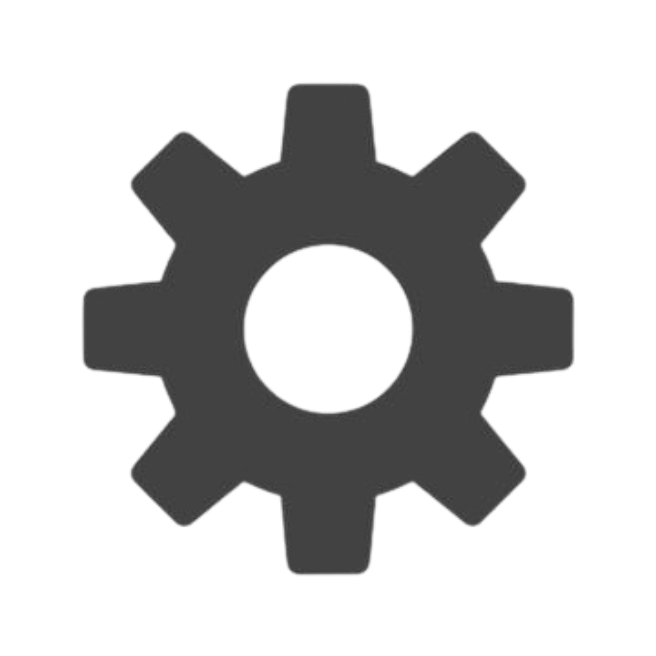
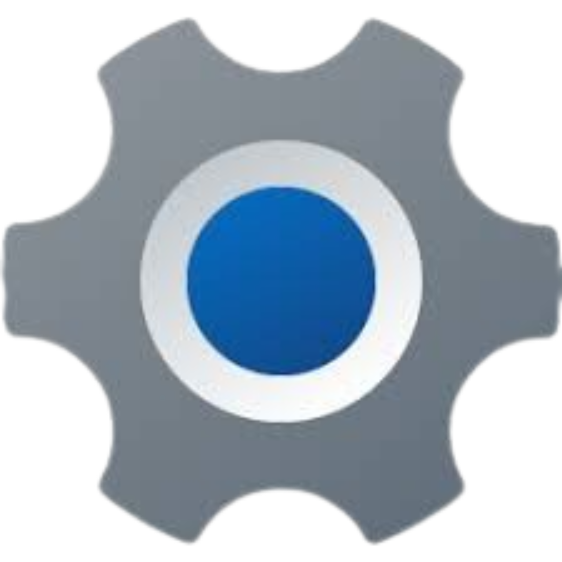
Moved min Max menu to DataTable and fixed Climb calculations

diff --git a/gui/DataTable.java b/gui/DataTable.java
@@ -10,18 +10,26 @@ import java.awt.GridLayout;
 import java.awt.event.ActionEvent;
 import java.awt.event.ActionListener;
 import javax.swing.BorderFactory;
+import javax.swing.ButtonGroup;
 import javax.swing.JButton;
 import javax.swing.JFrame;
 import javax.swing.JPanel;
+import javax.swing.JRadioButton;
 import javax.swing.JScrollPane;
 import javax.swing.JTable;
 import javax.swing.table.DefaultTableModel;
+
+import Constants.Constants;
 
 public class DataTable extends JFrame {
 
     private final JFrame frame = new JFrame();
     private final JPanel panel = new JPanel();
-    private String[] columnNames = {"Team Number", "Auto", "Amp", "Speaker", "Climb", "Passes", "Trap", "Matches", "Defense"};
+    private final String[] columnNames = {"Team Number", "Auto", "Amp", "Speaker", "Climb", "Passes", "Trap", "Matches", "Defense"};
+    private static String tableCalcSetting = "Average";
+
+    private final JRadioButton[] tableOrganizationOptions = new JRadioButton[Constants.TABLE_SETTINGS_OPTIONS.length];
+    private final ButtonGroup tableOrganizationButtonGroup = new ButtonGroup();
     private JTable table = new JTable(new DefaultTableModel(CalculateTable.getDataObjects(TeamData.getTeams(), Settings.tableCalcSetting), columnNames) {
         @Override
         public boolean isCellEditable(int row, int column) {
@@ -34,13 +42,17 @@ public class DataTable extends JFrame {
     public DataTable() {
         super();
 
-        for(int i = 0; i< columnNames.length; i++){
+        panel.setBorder(BorderFactory.createMatteBorder(30, 30, 30, 30, Color.BLUE));
+        panel.setLayout(null);
+        panel.setPreferredSize(new Dimension(1920, 1280));
+
+        for(int i = 0; i< columnNames.length; i++) {
             JButton button = new JButton(columnNames[i]);
             final Integer inneri = i;
              button.addActionListener(new ActionListener() {
                 @Override
                 public void actionPerformed(ActionEvent e) {
-                    table.setModel(new DefaultTableModel(CalculateTable.doublestoObjects(CalculateTable.organizeData(CalculateTable.getDataDoubles(TeamData.getTeams(), Settings.tableCalcSetting), inneri, (lastButtonClicked == inneri))), columnNames)
+                    table.setModel(new DefaultTableModel(CalculateTable.doublestoObjects(CalculateTable.organizeData(CalculateTable.getDataDoubles(TeamData.getTeams(), tableCalcSetting), inneri, (lastButtonClicked == inneri))), columnNames)
                     {
                         @Override
                         public boolean isCellEditable(int row, int column) {
@@ -54,10 +66,28 @@ public class DataTable extends JFrame {
 
             buttonPanel.add(button);
         }
-        buttonPanel.setBounds(31, 60, (1540-61), 25);
+        buttonPanel.setBounds(31, 90, (1540-61), 25);
         table.setFont((new Font(table.getFont().getName(), Font.BOLD, 20)));
         table.setRowHeight(table.getRowHeight() + 5);
         table.setRowMargin(5);
+
+        for (int i = 0; i < tableOrganizationOptions.length; i++) {
+            tableOrganizationOptions[i] = new JRadioButton(Constants.TABLE_SETTINGS_OPTIONS[i]);
+            tableOrganizationOptions[i].setSelected(Constants.TABLE_SETTINGS_OPTIONS[i].equals(tableCalcSetting));
+            tableOrganizationOptions[i].setBounds(710 - (tableOrganizationOptions.length * 100 / 2) + ((i + 1) * 100), 60 , 100, 25);
+            final int temp = i;
+            tableOrganizationOptions[i].addActionListener(new ActionListener() {
+                @Override
+                public void actionPerformed(ActionEvent e) {
+                    tableCalcSetting = Constants.TABLE_SETTINGS_OPTIONS[temp];
+                    new DataTable();
+                }
+            });
+            panel.add(tableOrganizationOptions[i]);
+
+            tableOrganizationButtonGroup.add(tableOrganizationOptions[i]);
+        }
+
         panel.add(buttonPanel, BorderLayout.NORTH);
 
         panel.setBorder(BorderFactory.createMatteBorder(30, 30, 30, 30, Color.BLUE));
@@ -65,7 +95,7 @@ public class DataTable extends JFrame {
         panel.setLayout(null);
         panel.setPreferredSize(new Dimension(1540, 1280));
 
-        table.setBounds(31, 90, (1540-61), 1000);
+        table.setBounds(31, 120, (1540-61), 1000);
         panel.add(table);
 
         new ToggleScreenButtons(panel, CurrentScreen.DataTable);

diff --git a/gui/Settings.java b/gui/Settings.java
@@ -16,16 +16,12 @@ import javax.swing.JRadioButton;
 
 public class Settings implements ActionListener {
 
-    private JFrame frame = new JFrame();
-    private JPanel panel = new JPanel();
+    private final JFrame frame = new JFrame();
+    private final JPanel panel = new JPanel();
 
     public static String tableCalcSetting = "Average";
 
-    private JLabel labelTableOrganization = new JLabel("What should the value displayed on the table be?");
-    private JRadioButton[] tableOrganizationOptions = new JRadioButton[Constants.TABLE_SETTINGS_OPTIONS.length];
-    private ButtonGroup tableOrganizationButtonGroup = new ButtonGroup();
-
-    private JButton submitButton = new JButton("Save Settings");
+    private final JButton submitButton = new JButton("Save Settings");
 
     public Settings() {
 
@@ -33,16 +29,6 @@ public class Settings implements ActionListener {
         panel.setBorder(BorderFactory.createMatteBorder(30, 30, 30, 30, Color.BLUE));
         panel.setLayout(null);
         panel.setPreferredSize(new Dimension(1920, 1280));
-
-        labelTableOrganization.setBounds(710, 30, 300, 25);
-        panel.add(labelTableOrganization);
-
-        for (int i = 0; i < tableOrganizationOptions.length; i++) {
-            tableOrganizationOptions[i] = new JRadioButton(Constants.TABLE_SETTINGS_OPTIONS[i]);
-            tableOrganizationOptions[i].setBounds((710 - (tableOrganizationOptions.length * 30 / 2) + i * 30), 60, 300, 25);
-            panel.add(tableOrganizationOptions[i]);
-            tableOrganizationButtonGroup.add(tableOrganizationOptions[i]);
-        }
 
         submitButton.setBounds(710, 540, 300, 25);
         submitButton.setBackground(Color.LIGHT_GRAY);
@@ -59,18 +45,5 @@ public class Settings implements ActionListener {
     }
 
     @Override
-    public void actionPerformed(ActionEvent e) {
-        tableCalcSetting = getOption(tableOrganizationOptions);
-        if (tableCalcSetting.equals(null)) {
-            System.out.println("Something broke");
-            new DataInputManual();
-        }
-    }
-
-    private String getOption(JRadioButton[] options) {
-        for (int i = 0; i < options.length; i++) {
-            if (options[i].isSelected()) return Constants.TABLE_SETTINGS_OPTIONS[i];
-        }
-        return null;
-    }
+    public void actionPerformed(ActionEvent e) {}
 }

diff --git a/gui/DataInputUpload.java b/gui/DataInputUpload.java
@@ -80,7 +80,7 @@ public class DataInputUpload implements ActionListener {
             for (int i = 0; i < dataLabels.length; i++) {
                 if (dataLabels[i].equals("preMatchStart")) validity = i;
                 else if (dataLabels[i].equals("team_key")) teamNumber = i;
-                else if (dataLabels[i].equals("playedDefense")) role = i;
+                else if (dataLabels[i].equals("role")) role = i;
                 else if (dataLabels[i].equals("totalSpeakerNotes")) speakerNotes = i;
                 else if (dataLabels[i].equals("totalAmpNotes")) ampNotes = i;
                 else if (dataLabels[i].equals("totalAutoNotes")) autoNotes = i;
@@ -102,7 +102,8 @@ public class DataInputUpload implements ActionListener {
                         data[notesPassed] = data[notesPassed].replaceAll("\"", "").trim().replaceAll("\uFEFF", "");
                         data[autoNotes] = data[autoNotes].replaceAll("\"", "").trim().replaceAll("\uFEFF", "");
                         data[trapNotes] = data[trapNotes].replaceAll("\"", "").trim().replaceAll("\uFEFF", "");
-                        if(data[role].equals("1")) data[role] = "D";
+                        data[climbed] = data[climbed].replaceAll("\"", "").trim().replaceAll("\uFEFF", "");
+                        if(data[role].equals("Defense")) data[role] = "D";
                         else if(
                             (Integer.valueOf(data[ampNotes]) > (Integer.valueOf(data[speakerNotes]) - 2)) && 
                             (Integer.valueOf(data[ampNotes]) > (Integer.valueOf(data[notesPassed]) - 2)) && 
@@ -119,7 +120,7 @@ public class DataInputUpload implements ActionListener {
                             Integer.valueOf(data[autoNotes]),
                             Integer.valueOf(data[notesPassed]),
                             Integer.valueOf(data[trapNotes]),
-                            data[climbed].equals("1")
+                            !(data[climbed].equals("Parked") || data[climbed].equals("Not Parked"))
                             );
                     }
                 }

diff --git a/gui/ToggleScreenButtons.java b/gui/ToggleScreenButtons.java
@@ -3,6 +3,8 @@ package gui;
 import java.awt.Color;
 import java.awt.event.ActionEvent;
 import java.awt.event.ActionListener;
+import java.awt.geom.AffineTransform;
+import java.awt.image.AffineTransformOp;
 import java.awt.image.BufferedImage;
 import java.io.File;
 
@@ -20,14 +22,26 @@ public class ToggleScreenButtons {
     public ToggleScreenButtons(JPanel panel, CurrentScreen currentScreen) {
 
         try {
-            BufferedImage buttonIcon = ImageIO.read(new File("\\pictures\\image.png"));
-            settingsButton = new JButton(new ImageIcon(buttonIcon));
+            BufferedImage unscaledButtonIcon = ImageIO.read(new File("./pictures/image.png"));
+            BufferedImage scaledButtonIcon = new BufferedImage(30, 30, BufferedImage.TYPE_INT_ARGB);
+            AffineTransform transform = new AffineTransform();
+            transform.scale(unscaledButtonIcon.getWidth() < unscaledButtonIcon.getHeight() ? 30.0 / unscaledButtonIcon.getHeight() : 30.0 / unscaledButtonIcon.getWidth(), unscaledButtonIcon.getWidth() < unscaledButtonIcon.getHeight() ? 30.0 / unscaledButtonIcon.getHeight() : 30.0 / unscaledButtonIcon.getWidth());
+            AffineTransformOp scaleOp = new AffineTransformOp(transform, AffineTransformOp.TYPE_BILINEAR);
+            scaledButtonIcon = scaleOp.filter(unscaledButtonIcon, scaledButtonIcon);
+
+            settingsButton = new JButton(new ImageIcon(scaledButtonIcon));
         } 
         catch (Exception e) {
             System.out.println(e.getMessage());
         }
         
         settingsButton.setBounds(30, 30, 30, 30);
+        settingsButton.addActionListener(new ActionListener() {
+            @Override
+            public void actionPerformed(ActionEvent e) {
+                new Settings();
+            }
+        });
         panel.add(settingsButton);
 
         uploadDataButton.setBounds(currentScreen.equals(CurrentScreen.DataTable) ? 560 : 860, currentScreen.equals(CurrentScreen.DataTable) ? 31 : 570, 300, 25);

diff --git a/calcs/Team.java b/calcs/Team.java
@@ -235,7 +235,7 @@ public class Team {
     private double getAverage(ArrayList<Integer> list) {
         double result = 0;
         for (int i = 0; i < list.size(); i++) result += list.get(i);
-        return result / list.size();
+        return result / (double) list.size();
     }
 
     private int getTotal(ArrayList<Integer> list) {
